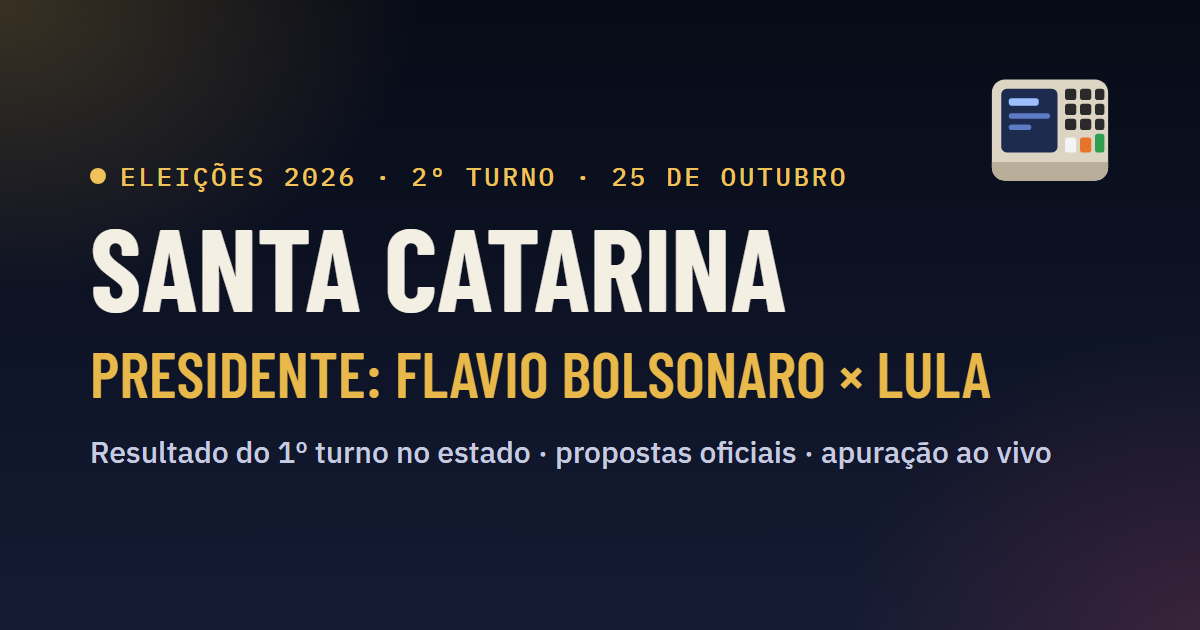
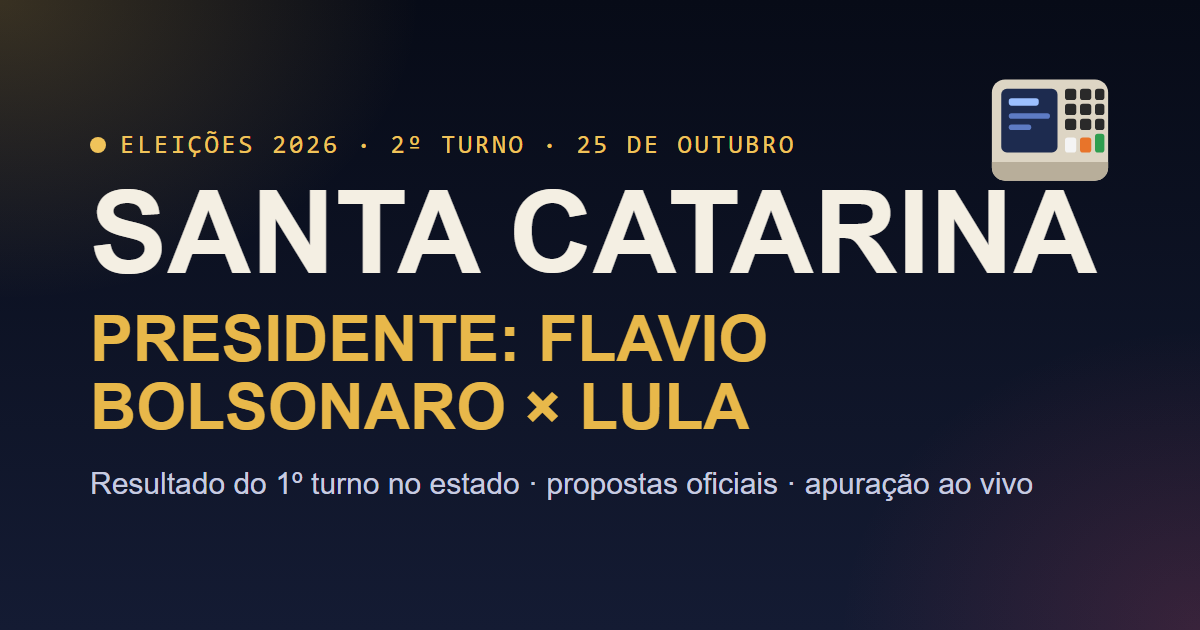
Prévias de compartilhamento com o endereço da Cloudflare

Changed region(s): [[0.0617, 0.2111, 0.925, 0.7841]]

diff --git a/public/es/index.html b/public/es/index.html
@@ -6,14 +6,14 @@
 <meta name="viewport" content="width=device-width,initial-scale=1">
 <title>Governador · Espírito Santo · 2º turno · Lorenzo Pazolini × Ricardo Ferraço</title>
 <meta name="description" content="Lorenzo Pazolini (REPUBLICANOS) × Ricardo Ferraço (MDB) no 2º turno de 25 de outubro. Resultado do 1º turno, propostas oficiais e apuração ao vivo. No mesmo dia, o Espírito Santo também vota para Presidente.">
-<link rel="canonical" href="https://luizcporto.github.io/placar/es/">
+<link rel="canonical" href="https://eleicao.luiz-porto.workers.dev/es/">
 <meta property="og:type" content="website">
 <meta property="og:locale" content="pt_BR">
 <meta property="og:site_name" content="Placar da Apuração 2026">
 <meta property="og:title" content="Governador · Espírito Santo · 2º turno · Lorenzo Pazolini × Ricardo Ferraço">
 <meta property="og:description" content="Lorenzo Pazolini (REPUBLICANOS) × Ricardo Ferraço (MDB) no 2º turno de 25 de outubro. Resultado do 1º turno, propostas oficiais e apuração ao vivo. No mesmo dia, o Espírito Santo também vota para Presidente.">
-<meta property="og:url" content="https://luizcporto.github.io/placar/es/">
-<meta property="og:image" content="https://luizcporto.github.io/placar/img/compartilhar/es.png">
+<meta property="og:url" content="https://eleicao.luiz-porto.workers.dev/es/">
+<meta property="og:image" content="https://eleicao.luiz-porto.workers.dev/img/compartilhar/es.png">
 <meta property="og:image:width" content="1200">
 <meta property="og:image:height" content="630">
 <meta property="og:image:alt" content="Espírito Santo · Governador: Lorenzo Pazolini × Ricardo Ferraço">

diff --git a/public/to/index.html b/public/to/index.html
@@ -6,14 +6,14 @@
 <meta name="viewport" content="width=device-width,initial-scale=1">
 <title>Governador · Tocantins · 2º turno · Professora Dorinha × Vicentinho Júnior</title>
 <meta name="description" content="Professora Dorinha (UNIÃO) × Vicentinho Júnior (PSDB) no 2º turno de 25 de outubro. Resultado do 1º turno, propostas oficiais e apuração ao vivo. No mesmo dia, o Tocantins também vota para Presidente.">
-<link rel="canonical" href="https://luizcporto.github.io/placar/to/">
+<link rel="canonical" href="https://eleicao.luiz-porto.workers.dev/to/">
 <meta property="og:type" content="website">
 <meta property="og:locale" content="pt_BR">
 <meta property="og:site_name" content="Placar da Apuração 2026">
 <meta property="og:title" content="Governador · Tocantins · 2º turno · Professora Dorinha × Vicentinho Júnior">
 <meta property="og:description" content="Professora Dorinha (UNIÃO) × Vicentinho Júnior (PSDB) no 2º turno de 25 de outubro. Resultado do 1º turno, propostas oficiais e apuração ao vivo. No mesmo dia, o Tocantins também vota para Presidente.">
-<meta property="og:url" content="https://luizcporto.github.io/placar/to/">
-<meta property="og:image" content="https://luizcporto.github.io/placar/img/compartilhar/to.png">
+<meta property="og:url" content="https://eleicao.luiz-porto.workers.dev/to/">
+<meta property="og:image" content="https://eleicao.luiz-porto.workers.dev/img/compartilhar/to.png">
 <meta property="og:image:width" content="1200">
 <meta property="og:image:height" content="630">
 <meta property="og:image:alt" content="Tocantins · Governador: Professora Dorinha × Vicentinho Júnior">

diff --git a/public/ms/index.html b/public/ms/index.html
@@ -6,14 +6,14 @@
 <meta name="viewport" content="width=device-width,initial-scale=1">
 <title>2º turno em Mato Grosso do Sul · Presidente · Flavio Bolsonaro × Lula</title>
 <meta name="description" content="Mato Grosso do Sul elegeu Eduardo Riedel (PP) governador(a) no 1º turno. Em 25 de outubro o estado vota para Presidente: Flavio Bolsonaro (PL) × Lula (PT). Resultado do 1º turno no estado e propostas oficiais.">
-<link rel="canonical" href="https://luizcporto.github.io/placar/ms/">
+<link rel="canonical" href="https://eleicao.luiz-porto.workers.dev/ms/">
 <meta property="og:type" content="website">
 <meta property="og:locale" content="pt_BR">
 <meta property="og:site_name" content="Placar da Apuração 2026">
 <meta property="og:title" content="2º turno em Mato Grosso do Sul · Presidente · Flavio Bolsonaro × Lula">
 <meta property="og:description" content="Mato Grosso do Sul elegeu Eduardo Riedel (PP) governador(a) no 1º turno. Em 25 de outubro o estado vota para Presidente: Flavio Bolsonaro (PL) × Lula (PT). Resultado do 1º turno no estado e propostas oficiais.">
-<meta property="og:url" content="https://luizcporto.github.io/placar/ms/">
-<meta property="og:image" content="https://luizcporto.github.io/placar/img/compartilhar/ms.png">
+<meta property="og:url" content="https://eleicao.luiz-porto.workers.dev/ms/">
+<meta property="og:image" content="https://eleicao.luiz-porto.workers.dev/img/compartilhar/ms.png">
 <meta property="og:image:width" content="1200">
 <meta property="og:image:height" content="630">
 <meta property="og:image:alt" content="Mato Grosso do Sul · Presidente: Flavio Bolsonaro × Lula">

diff --git a/public/mg/index.html b/public/mg/index.html
@@ -6,14 +6,14 @@
 <meta name="viewport" content="width=device-width,initial-scale=1">
 <title>2º turno em Minas Gerais · Presidente · Flavio Bolsonaro × Lula</title>
 <meta name="description" content="Minas Gerais elegeu Cleitinho Azevedo (REPUBLICANOS) governador(a) no 1º turno. Em 25 de outubro o estado vota para Presidente: Flavio Bolsonaro (PL) × Lula (PT). Resultado do 1º turno no estado e propostas oficiais.">
-<link rel="canonical" href="https://luizcporto.github.io/placar/mg/">
+<link rel="canonical" href="https://eleicao.luiz-porto.workers.dev/mg/">
 <meta property="og:type" content="website">
 <meta property="og:locale" content="pt_BR">
 <meta property="og:site_name" content="Placar da Apuração 2026">
 <meta property="og:title" content="2º turno em Minas Gerais · Presidente · Flavio Bolsonaro × Lula">
 <meta property="og:description" content="Minas Gerais elegeu Cleitinho Azevedo (REPUBLICANOS) governador(a) no 1º turno. Em 25 de outubro o estado vota para Presidente: Flavio Bolsonaro (PL) × Lula (PT). Resultado do 1º turno no estado e propostas oficiais.">
-<meta property="og:url" content="https://luizcporto.github.io/placar/mg/">
-<meta property="og:image" content="https://luizcporto.github.io/placar/img/compartilhar/mg.png">
+<meta property="og:url" content="https://eleicao.luiz-porto.workers.dev/mg/">
+<meta property="og:image" content="https://eleicao.luiz-porto.workers.dev/img/compartilhar/mg.png">
 <meta property="og:image:width" content="1200">
 <meta property="og:image:height" content="630">
 <meta property="og:image:alt" content="Minas Gerais · Presidente: Flavio Bolsonaro × Lula">

diff --git a/public/mt/index.html b/public/mt/index.html
@@ -6,14 +6,14 @@
 <meta name="viewport" content="width=device-width,initial-scale=1">
 <title>2º turno em Mato Grosso · Presidente · Flavio Bolsonaro × Lula</title>
 <meta name="description" content="Mato Grosso elegeu Otaviano Pivetta (REPUBLICANOS) governador(a) no 1º turno. Em 25 de outubro o estado vota para Presidente: Flavio Bolsonaro (PL) × Lula (PT). Resultado do 1º turno no estado e propostas oficiais.">
-<link rel="canonical" href="https://luizcporto.github.io/placar/mt/">
+<link rel="canonical" href="https://eleicao.luiz-porto.workers.dev/mt/">
 <meta property="og:type" content="website">
 <meta property="og:locale" content="pt_BR">
 <meta property="og:site_name" content="Placar da Apuração 2026">
 <meta property="og:title" content="2º turno em Mato Grosso · Presidente · Flavio Bolsonaro × Lula">
 <meta property="og:description" content="Mato Grosso elegeu Otaviano Pivetta (REPUBLICANOS) governador(a) no 1º turno. Em 25 de outubro o estado vota para Presidente: Flavio Bolsonaro (PL) × Lula (PT). Resultado do 1º turno no estado e propostas oficiais.">
-<meta property="og:url" content="https://luizcporto.github.io/placar/mt/">
-<meta property="og:image" content="https://luizcporto.github.io/placar/img/compartilhar/mt.png">
+<meta property="og:url" content="https://eleicao.luiz-porto.workers.dev/mt/">
+<meta property="og:image" content="https://eleicao.luiz-porto.workers.dev/img/compartilhar/mt.png">
 <meta property="og:image:width" content="1200">
 <meta property="og:image:height" content="630">
 <meta property="og:image:alt" content="Mato Grosso · Presidente: Flavio Bolsonaro × Lula">

diff --git a/public/am/index.html b/public/am/index.html
@@ -6,14 +6,14 @@
 <meta name="viewport" content="width=device-width,initial-scale=1">
 <title>Governador · Amazonas · 2º turno · Omar Aziz × Professora Maria do Carmo</title>
 <meta name="description" content="Omar Aziz (PSD) × Professora Maria do Carmo (PL) no 2º turno de 25 de outubro. Resultado do 1º turno, propostas oficiais e apuração ao vivo. No mesmo dia, o Amazonas também vota para Presidente.">
-<link rel="canonical" href="https://luizcporto.github.io/placar/am/">
+<link rel="canonical" href="https://eleicao.luiz-porto.workers.dev/am/">
 <meta property="og:type" content="website">
 <meta property="og:locale" content="pt_BR">
 <meta property="og:site_name" content="Placar da Apuração 2026">
 <meta property="og:title" content="Governador · Amazonas · 2º turno · Omar Aziz × Professora Maria do Carmo">
 <meta property="og:description" content="Omar Aziz (PSD) × Professora Maria do Carmo (PL) no 2º turno de 25 de outubro. Resultado do 1º turno, propostas oficiais e apuração ao vivo. No mesmo dia, o Amazonas também vota para Presidente.">
-<meta property="og:url" content="https://luizcporto.github.io/placar/am/">
-<meta property="og:image" content="https://luizcporto.github.io/placar/img/compartilhar/am.png">
+<meta property="og:url" content="https://eleicao.luiz-porto.workers.dev/am/">
+<meta property="og:image" content="https://eleicao.luiz-porto.workers.dev/img/compartilhar/am.png">
 <meta property="og:image:width" content="1200">
 <meta property="og:image:height" content="630">
 <meta property="og:image:alt" content="Amazonas · Governador: Omar Aziz × Professora Maria do Carmo">

diff --git a/public/df/index.html b/public/df/index.html
@@ -6,14 +6,14 @@
 <meta name="viewport" content="width=device-width,initial-scale=1">
 <title>Governador · Distrito Federal · 2º turno · Celina Leão × Leandro Grass</title>
 <meta name="description" content="Celina Leão (PP) × Leandro Grass (PT) no 2º turno de 25 de outubro. Resultado do 1º turno, propostas oficiais e apuração ao vivo. No mesmo dia, o Distrito Federal também vota para Presidente.">
-<link rel="canonical" href="https://luizcporto.github.io/placar/df/">
+<link rel="canonical" href="https://eleicao.luiz-porto.workers.dev/df/">
 <meta property="og:type" content="website">
 <meta property="og:locale" content="pt_BR">
 <meta property="og:site_name" content="Placar da Apuração 2026">
 <meta property="og:title" content="Governador · Distrito Federal · 2º turno · Celina Leão × Leandro Grass">
 <meta property="og:description" content="Celina Leão (PP) × Leandro Grass (PT) no 2º turno de 25 de outubro. Resultado do 1º turno, propostas oficiais e apuração ao vivo. No mesmo dia, o Distrito Federal também vota para Presidente.">
-<meta property="og:url" content="https://luizcporto.github.io/placar/df/">
-<meta property="og:image" content="https://luizcporto.github.io/placar/img/compartilhar/df.png">
+<meta property="og:url" content="https://eleicao.luiz-porto.workers.dev/df/">
+<meta property="og:image" content="https://eleicao.luiz-porto.workers.dev/img/compartilhar/df.png">
 <meta property="og:image:width" content="1200">
 <meta property="og:image:height" content="630">
 <meta property="og:image:alt" content="Distrito Federal · Governador: Celina Leão × Leandro Grass">

diff --git a/public/rs/index.html b/public/rs/index.html
@@ -6,14 +6,14 @@
 <meta name="viewport" content="width=device-width,initial-scale=1">
 <title>2º turno no Rio Grande do Sul · Presidente · Flavio Bolsonaro × Lula</title>
 <meta name="description" content="O Rio Grande do Sul elegeu Zucco (PL) governador(a) no 1º turno. Em 25 de outubro o estado vota para Presidente: Flavio Bolsonaro (PL) × Lula (PT). Resultado do 1º turno no estado e propostas oficiais.">
-<link rel="canonical" href="https://luizcporto.github.io/placar/rs/">
+<link rel="canonical" href="https://eleicao.luiz-porto.workers.dev/rs/">
 <meta property="og:type" content="website">
 <meta property="og:locale" content="pt_BR">
 <meta property="og:site_name" content="Placar da Apuração 2026">
 <meta property="og:title" content="2º turno no Rio Grande do Sul · Presidente · Flavio Bolsonaro × Lula">
 <meta property="og:description" content="O Rio Grande do Sul elegeu Zucco (PL) governador(a) no 1º turno. Em 25 de outubro o estado vota para Presidente: Flavio Bolsonaro (PL) × Lula (PT). Resultado do 1º turno no estado e propostas oficiais.">
-<meta property="og:url" content="https://luizcporto.github.io/placar/rs/">
-<meta property="og:image" content="https://luizcporto.github.io/placar/img/compartilhar/rs.png">
+<meta property="og:url" content="https://eleicao.luiz-porto.workers.dev/rs/">
+<meta property="og:image" content="https://eleicao.luiz-porto.workers.dev/img/compartilhar/rs.png">
 <meta property="og:image:width" content="1200">
 <meta property="og:image:height" content="630">
 <meta property="og:image:alt" content="Rio Grande do Sul · Presidente: Flavio Bolsonaro × Lula">

diff --git a/public/sc/index.html b/public/sc/index.html
@@ -6,14 +6,14 @@
 <meta name="viewport" content="width=device-width,initial-scale=1">
 <title>2º turno em Santa Catarina · Presidente · Flavio Bolsonaro × Lula</title>
 <meta name="description" content="Santa Catarina elegeu Jorginho Mello (PL) governador(a) no 1º turno. Em 25 de outubro o estado vota para Presidente: Flavio Bolsonaro (PL) × Lula (PT). Resultado do 1º turno no estado e propostas oficiais.">
-<link rel="canonical" href="https://luizcporto.github.io/placar/sc/">
+<link rel="canonical" href="https://eleicao.luiz-porto.workers.dev/sc/">
 <meta property="og:type" content="website">
 <meta property="og:locale" content="pt_BR">
 <meta property="og:site_name" content="Placar da Apuração 2026">
 <meta property="og:title" content="2º turno em Santa Catarina · Presidente · Flavio Bolsonaro × Lula">
 <meta property="og:description" content="Santa Catarina elegeu Jorginho Mello (PL) governador(a) no 1º turno. Em 25 de outubro o estado vota para Presidente: Flavio Bolsonaro (PL) × Lula (PT). Resultado do 1º turno no estado e propostas oficiais.">
-<meta property="og:url" content="https://luizcporto.github.io/placar/sc/">
-<meta property="og:image" content="https://luizcporto.github.io/placar/img/compartilhar/sc.png">
+<meta property="og:url" content="https://eleicao.luiz-porto.workers.dev/sc/">
+<meta property="og:image" content="https://eleicao.luiz-porto.workers.dev/img/compartilhar/sc.png">
 <meta property="og:image:width" content="1200">
 <meta property="og:image:height" content="630">
 <meta property="og:image:alt" content="Santa Catarina · Presidente: Flavio Bolsonaro × Lula">

diff --git a/public/rn/index.html b/public/rn/index.html
@@ -6,14 +6,14 @@
 <meta name="viewport" content="width=device-width,initial-scale=1">
 <title>Governador · Rio Grande do Norte · 2º turno · Allyson × Cadu de Lula</title>
 <meta name="description" content="Allyson (UNIÃO) × Cadu de Lula (PT) no 2º turno de 25 de outubro. Resultado do 1º turno, propostas oficiais e apuração ao vivo. No mesmo dia, o Rio Grande do Norte também vota para Presidente.">
-<link rel="canonical" href="https://luizcporto.github.io/placar/rn/">
+<link rel="canonical" href="https://eleicao.luiz-porto.workers.dev/rn/">
 <meta property="og:type" content="website">
 <meta property="og:locale" content="pt_BR">
 <meta property="og:site_name" content="Placar da Apuração 2026">
 <meta property="og:title" content="Governador · Rio Grande do Norte · 2º turno · Allyson × Cadu de Lula">
 <meta property="og:description" content="Allyson (UNIÃO) × Cadu de Lula (PT) no 2º turno de 25 de outubro. Resultado do 1º turno, propostas oficiais e apuração ao vivo. No mesmo dia, o Rio Grande do Norte também vota para Presidente.">
-<meta property="og:url" content="https://luizcporto.github.io/placar/rn/">
-<meta property="og:image" content="https://luizcporto.github.io/placar/img/compartilhar/rn.png">
+<meta property="og:url" content="https://eleicao.luiz-porto.workers.dev/rn/">
+<meta property="og:image" content="https://eleicao.luiz-porto.workers.dev/img/compartilhar/rn.png">
 <meta property="og:image:width" content="1200">
 <meta property="og:image:height" content="630">
 <meta property="og:image:alt" content="Rio Grande do Norte · Governador: Allyson × Cadu de Lula">

diff --git a/public/sp/index.html b/public/sp/index.html
@@ -6,14 +6,14 @@
 <meta name="viewport" content="width=device-width,initial-scale=1">
 <title>2º turno em São Paulo · Presidente · Flavio Bolsonaro × Lula</title>
 <meta name="description" content="São Paulo elegeu Tarcísio (REPUBLICANOS) governador(a) no 1º turno. Em 25 de outubro o estado vota para Presidente: Flavio Bolsonaro (PL) × Lula (PT). Resultado do 1º turno no estado e propostas oficiais.">
-<link rel="canonical" href="https://luizcporto.github.io/placar/sp/">
+<link rel="canonical" href="https://eleicao.luiz-porto.workers.dev/sp/">
 <meta property="og:type" content="website">
 <meta property="og:locale" content="pt_BR">
 <meta property="og:site_name" content="Placar da Apuração 2026">
 <meta property="og:title" content="2º turno em São Paulo · Presidente · Flavio Bolsonaro × Lula">
 <meta property="og:description" content="São Paulo elegeu Tarcísio (REPUBLICANOS) governador(a) no 1º turno. Em 25 de outubro o estado vota para Presidente: Flavio Bolsonaro (PL) × Lula (PT). Resultado do 1º turno no estado e propostas oficiais.">
-<meta property="og:url" content="https://luizcporto.github.io/placar/sp/">
-<meta property="og:image" content="https://luizcporto.github.io/placar/img/compartilhar/sp.png">
+<meta property="og:url" content="https://eleicao.luiz-porto.workers.dev/sp/">
+<meta property="og:image" content="https://eleicao.luiz-porto.workers.dev/img/compartilhar/sp.png">
 <meta property="og:image:width" content="1200">
 <meta property="og:image:height" content="630">
 <meta property="og:image:alt" content="São Paulo · Presidente: Flavio Bolsonaro × Lula">

diff --git a/public/rj/index.html b/public/rj/index.html
@@ -6,14 +6,14 @@
 <meta name="viewport" content="width=device-width,initial-scale=1">
 <title>Governador · Rio de Janeiro · 2º turno · Douglas Ruas × Eduardo Paes</title>
 <meta name="description" content="Douglas Ruas (PL) × Eduardo Paes (PSD) no 2º turno de 25 de outubro. Resultado do 1º turno, propostas oficiais e apuração ao vivo. No mesmo dia, o Rio de Janeiro também vota para Presidente.">
-<link rel="canonical" href="https://luizcporto.github.io/placar/rj/">
+<link rel="canonical" href="https://eleicao.luiz-porto.workers.dev/rj/">
 <meta property="og:type" content="website">
 <meta property="og:locale" content="pt_BR">
 <meta property="og:site_name" content="Placar da Apuração 2026">
 <meta property="og:title" content="Governador · Rio de Janeiro · 2º turno · Douglas Ruas × Eduardo Paes">
 <meta property="og:description" content="Douglas Ruas (PL) × Eduardo Paes (PSD) no 2º turno de 25 de outubro. Resultado do 1º turno, propostas oficiais e apuração ao vivo. No mesmo dia, o Rio de Janeiro também vota para Presidente.">
-<meta property="og:url" content="https://luizcporto.github.io/placar/rj/">
-<meta property="og:image" content="https://luizcporto.github.io/placar/img/compartilhar/rj.png">
+<meta property="og:url" content="https://eleicao.luiz-porto.workers.dev/rj/">
+<meta property="og:image" content="https://eleicao.luiz-porto.workers.dev/img/compartilhar/rj.png">
 <meta property="og:image:width" content="1200">
 <meta property="og:image:height" content="630">
 <meta property="og:image:alt" content="Rio de Janeiro · Governador: Douglas Ruas × Eduardo Paes">
